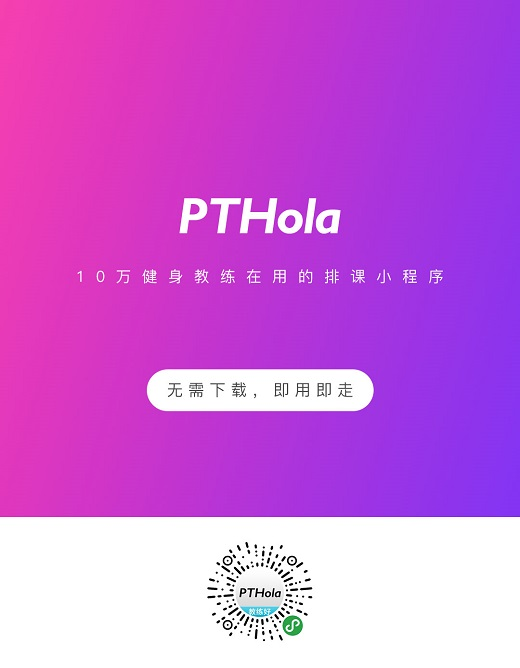
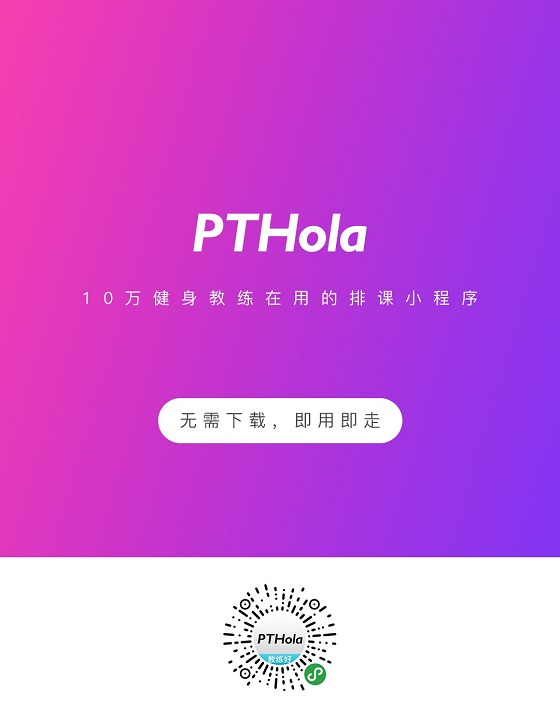
生成小程序二维码

diff --git a/src/components/bookList.vue b/src/components/bookList.vue
@@ -503,11 +503,13 @@
       }
     }
     .share-img{
-      width: 260px;
+      width: 280px;
+      height: 360px;
       position: fixed;
-      top: 20%;
+      top: 50%;
       left: 50%;
-      margin-left: -130px;
+      margin-left: -140px;
+      margin-top: -180px;
       z-index: 99;
       img{
         width: 100%;
